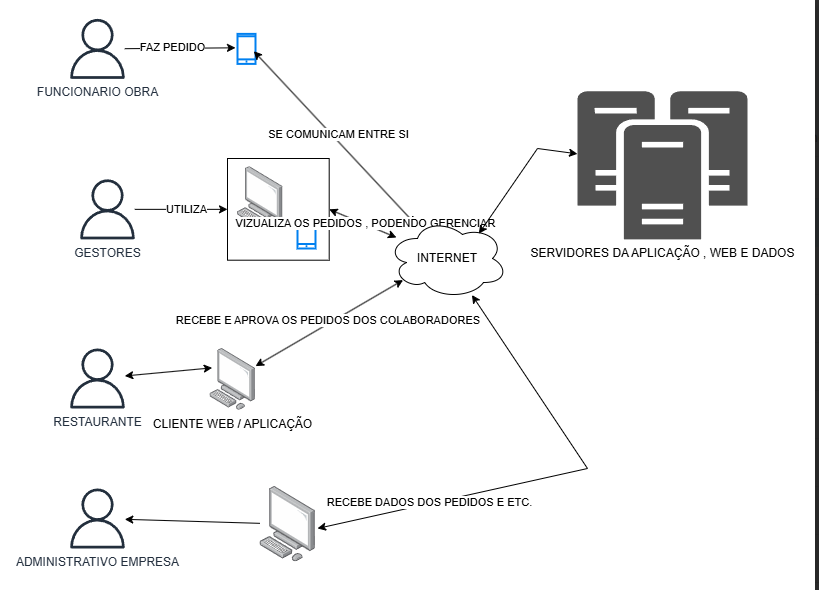
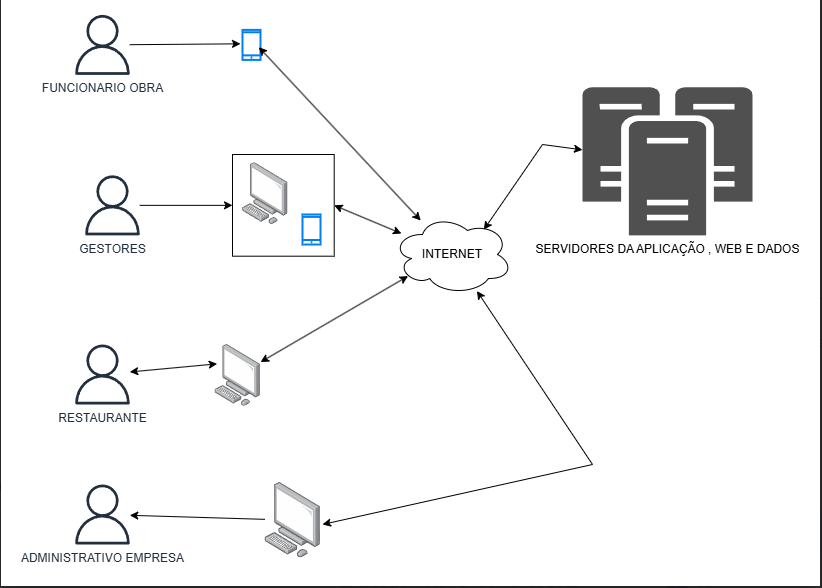
so ajeitandoi o diagrama

diff --git a/specs/requirements/vision.md b/specs/requirements/vision.md
@@ -1,6 +1,5 @@
 Documento de Visão de Produto (DVP)  
 Visão do Produto
-
 Conecta Refeições
 
 # Introdução
@@ -8,7 +7,7 @@ Conecta Refeições
 O documento de Visão do Produto (DVP) é um documento que descreve o produto de software que será desenvolvido. Ele descreve o problema que será resolvido, as principais necessidades dos stakeholders, as principais funcionalidades do sistema, as restrições do projeto, etc.
 
 # Propósito
-
+<!--  -->
 O objetivo deste documento é coletar, analisar e definir características e as necessidades de alto nível do Sistema Conecta Refeições.
 
 Ele se concentra nos recursos necessários aos stakeholders e aos usuários, e nas razões que levam a essas necessidades.
@@ -136,6 +135,8 @@ A solução oferece níveis de acesso personalizados para cada perfil (colaborad
 
 ![Diagrama do sistema](../../assets/diagrama.png)
 
+*__Figura 1__ - Arquitetura ambiental do sistema Conecta refeições*
+
 # Custo e venda
 
  A decisão acerca da viabilidade econômica deste requisito para planejamento de custos e orçamento do projeto dos sistema Conecta Refeições é aplicável ao departamento comercial, gerente de projetos e um futuro cliente.
@@ -171,12 +172,11 @@ O sistema oferece a funcionalidade de exportar os dados de pedidos para o Excel,
 
 # Restrições
 
-1\.**Restrição de orçamento**: O projeto deve ser concluído dentro de um determinado orçamento e não pode excedê-lo.  
-2\.**Restrição de tempo**: O sistema deve ser produzido em um determinado tempo , usando metodologias ágeis entregando , partes do produto   
-3\. **Restrições de hardware**:O sistema deve atender a diversos tipos de hardware, como smartphones , tablets e computadores, além disso deve ser bastante otimizado para funcionar em todos.  
-4\. **Restrições de segurança e privacidade**: O sistema deve atender aos requisitos de segurança, privacidade e proteção de dados do usuário, conforme a Lei Geral de Proteção de Dados (LGPD).  
-5\. **Restrições de usabilidade**: O sistema deve ser fácil de usar e acessível para usuários com deficiências visuais, pouca afinidade com tecnologia e etc…  .  
-6\. **Restrições de interoperabilidade**: O sistema deve ser capaz de interoperar com outros sistemas e aplicativos , como o excel ou o whatsapp .  
-7\. **Restrições de desempenho**: O sistema deve atender aos requisitos de desempenho, como velocidade, escalabilidade e disponibilidade , atender requisições rapidamente .  
-8\.**Restrições de linguagem**: O sistema deve ser compatível com os idiomas inglês e português.
+1\.**Restrição de tempo**: O sistema deve ser produzido em um determinado tempo , usando metodologias ágeis entregando , partes do produto   
+2\. **Restrições de hardware**: O sistema deve ser otimizado o bastante para atender smartphones mais antigos .  
+3\. **Restrições de segurança e privacidade**: O sistema deve atender aos requisitos de segurança, privacidade e proteção de dados do usuário, conforme a Lei Geral de Proteção de Dados (LGPD), visto que estaremos usando dados dos colaboradores das empresas.  
+4\. **Restrições de interface**: O sistema  para os colaboradores das obras optaremos por uma interface mais conversacional, com transcrição de texto para audio e vice versa, além disso o sistema devera ser capaz de concluir todos as operações em poucos passos para evitar demora na hora de efetivar pedidos utilizando ícones em grande escala para o sistema.  
+5\. **Restrições de interoperabilidade**: O sistema tem que possuir uma integração com planilhas e futuramente com o Whatsapp.  
+6\. **Restrições de desempenho**: O sist
+7\.**Restrições de linguagem**: O sistema deve ser compatível com os idiomas inglês e português.
 
